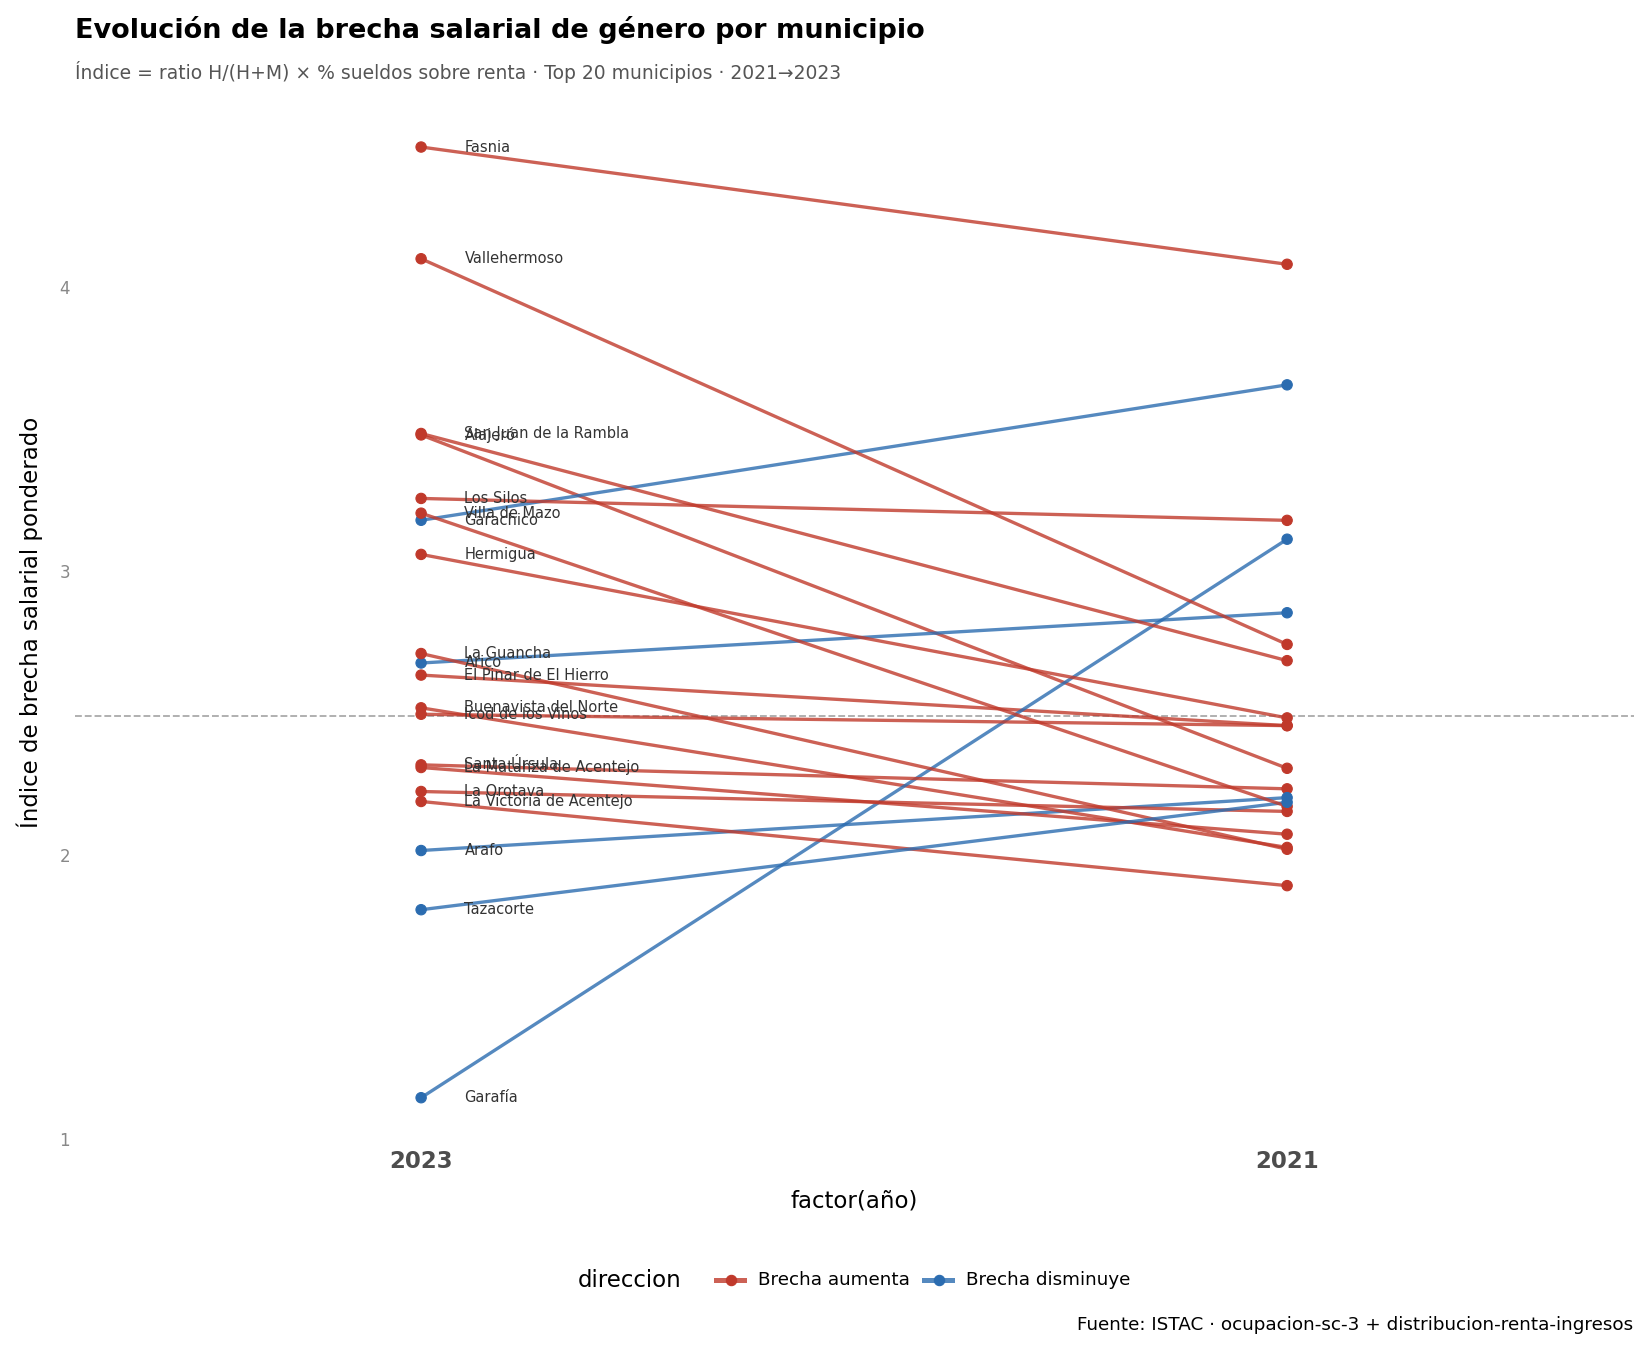
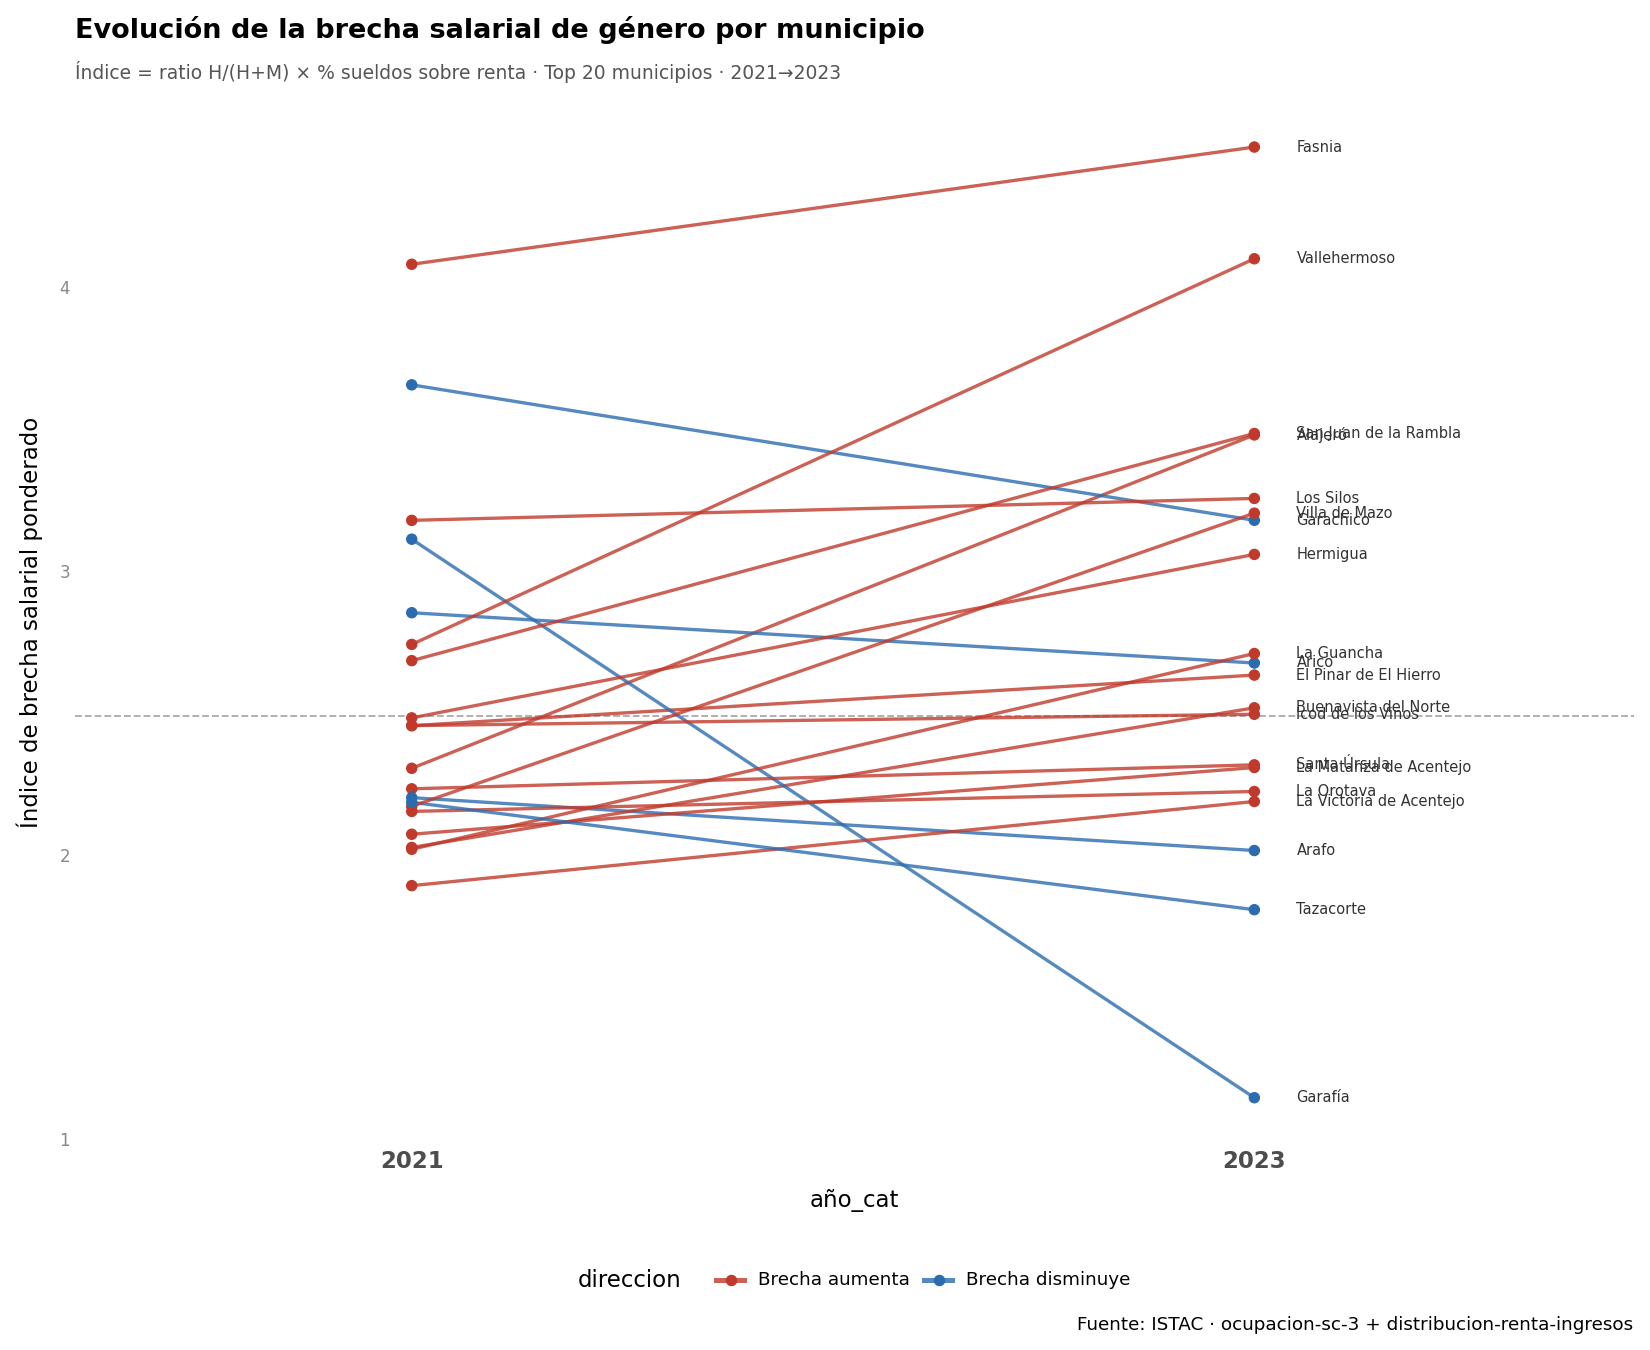
feat(assets): integrate gender gap spatial heatmaps into operational plotting pipeline and fix temporal categories ordering

diff --git a/assets_proyecto5/plots_assets.py b/assets_proyecto5/plots_assets.py
@@ -4,6 +4,7 @@ import pandas as pd
 import geopandas as gpd
 import matplotlib.pyplot as plt
 import matplotlib.colors as mcolors
+from matplotlib.cm import ScalarMappable
 from plotnine import *
 from dagster import asset, AssetExecutionContext, MetadataValue
 from assets import preprocesar_datos_p5
@@ -403,6 +404,9 @@ def plot_brecha_salarial(context: AssetExecutionContext) -> None:
         top.assign(año=AÑO_INI, brecha=top["brecha_ini"]),
         top.assign(año=AÑO_FIN, brecha=top["brecha_fin"]),
     ])
+    
+    # Garantizar orden creciente izquierda-derecha forzando categorías ordenadas
+    long["año_cat"] = pd.Categorical(long["año"], categories=[AÑO_INI, AÑO_FIN], ordered=True)
 
     mediana_global = long["brecha"].median()
     COLORES = {
@@ -412,7 +416,7 @@ def plot_brecha_salarial(context: AssetExecutionContext) -> None:
     }
 
     p = (
-        ggplot(long, aes(x="factor(año)", y="brecha", group="municipio", color="direccion"))
+        ggplot(long, aes(x="año_cat", y="brecha", group="municipio", color="direccion"))
         + geom_hline(yintercept=mediana_global, linetype="dashed", color="#888888", size=0.5, alpha=0.7)
         + geom_line(size=0.9, alpha=0.8)
         + geom_point(size=2.5, stroke=0.3)
@@ -444,3 +448,104 @@ def plot_brecha_salarial(context: AssetExecutionContext) -> None:
     out_path = os.path.join(get_plot_dir(), "brecha_salarial_slope.png")
     p.save(out_path, width=11, height=9, dpi=150, verbose=False)
     context.add_output_metadata({"plot": MetadataValue.md(f"![Brecha Salarial Slope]({out_path})")})
+
+@asset(deps=[preprocesar_datos_p5], group_name="visualizaciones")
+def plot_mapa_brecha_salarial(context: AssetExecutionContext) -> None:
+    cfg = get_plot_config()["brecha_salarial"]
+    
+    AÑO_INI = cfg.get("ano_ini", 2021)
+    AÑO_FIN = cfg.get("ano_fin", 2023)
+    TOP_N_LABEL = cfg.get("top_n_label", 5)
+    
+    ocu  = pd.read_csv(get_processed_path(cfg["dataset_ocu"])).dropna(subset=["num_casos"])
+    dist = pd.read_csv(get_processed_path(cfg["dataset_dist"])).dropna(subset=["OBS_VALUE"])
+
+    ocu_hm = (
+        ocu[ocu["sexo"].isin(["Hombres", "Mujeres"]) & (ocu["ocupacion"] != "No consta")]
+        .groupby(["municipio", "año", "sexo"], as_index=False)["num_casos"].sum()
+        .pivot(index=["municipio", "año"], columns="sexo", values="num_casos")
+        .reset_index()
+    )
+    ocu_hm.columns.name = None
+    ocu_hm["ratio_hm"] = ocu_hm["Hombres"] / (ocu_hm["Hombres"] + ocu_hm["Mujeres"])
+
+    sal = (
+        dist[dist["MEDIDAS_CODE"] == "SUELDOS_SALARIOS"]
+        .groupby(["municipio", "año"], as_index=False)["OBS_VALUE"].median()
+        .rename(columns={"OBS_VALUE": "pct_salarios"})
+    )
+
+    merged = ocu_hm.merge(sal, on=["municipio", "año"], how="inner")
+    merged["indice_brecha"] = (merged["ratio_hm"] - 0.5) * merged["pct_salarios"]
+
+    def cargar_municipios(año):
+        geojson_name = f"secciones_{año}0101_tenerife.json"
+        try:
+            gdf = gpd.read_file(get_geojson_path(geojson_name)).set_crs("EPSG:4326", allow_override=True)
+            gdf["municipio"] = gdf["etiqueta"].str.extract(r"- (.+)$")
+            gdf_mun = gdf.dissolve(by="municipio", as_index=False)[["municipio", "geometry"]]
+            return gdf_mun
+        except Exception:
+            return None
+
+    lim = max(abs(merged["indice_brecha"].min()), abs(merged["indice_brecha"].max()))
+    vmin, vmax = -lim, lim
+
+    fig, axes = plt.subplots(1, 2, figsize=(18, 9))
+
+    for ax, año in zip(axes, [AÑO_INI, AÑO_FIN]):
+        gdf_mun = cargar_municipios(año)
+        if gdf_mun is None:
+            ax.set_title(f"{año} - Sin Datos Espaciales")
+            ax.axis("off")
+            continue
+            
+        datos_año = merged[merged["año"] == año][["municipio", "indice_brecha"]]
+        gdf_plot = gdf_mun.merge(datos_año, on="municipio", how="left")
+
+        gdf_plot.plot(
+            column="indice_brecha",
+            cmap="RdBu_r", vmin=vmin, vmax=vmax,
+            linewidth=0.15, edgecolor="white",
+            missing_kwds={"color": "#dddddd", "label": "Sin datos"},
+            legend=False, ax=ax,
+        )
+
+        ax.set_title(str(año), fontsize=14, fontweight="bold", pad=8)
+        ax.axis("off")
+
+        top_mun = (
+            datos_año.assign(abs_brecha=datos_año["indice_brecha"].abs())
+            .nlargest(TOP_N_LABEL, "abs_brecha")["municipio"]
+            .tolist()
+        )
+        centroides = gdf_plot[gdf_plot["municipio"].isin(top_mun)].copy()
+        try:
+            centroides["cx"] = centroides.geometry.centroid.x
+            centroides["cy"] = centroides.geometry.centroid.y
+
+            for _, row in centroides.iterrows():
+                ax.annotate(
+                    row["municipio"],
+                    xy=(row["cx"], row["cy"]),
+                    fontsize=7, ha="center", color="#111111", fontweight="bold",
+                    bbox=dict(boxstyle="round,pad=0.2", fc="white", alpha=0.6, ec="none"),
+                )
+        except Exception:
+            pass
+
+    norm = mcolors.TwoSlopeNorm(vmin=vmin, vcenter=0, vmax=vmax)
+    sm   = ScalarMappable(cmap="RdBu_r", norm=norm)
+    sm.set_array([])
+    cbar = fig.colorbar(sm, ax=axes, orientation="vertical", shrink=0.6, pad=0.02)
+    cbar.set_label("Índice de brecha salarial\n(+ = favorable a hombres  /  − = favorable a mujeres)", fontsize=9)
+
+    fig.suptitle("Brecha salarial de género por municipio — Tenerife", fontsize=15, fontweight="bold", y=1.01)
+    fig.text(0.5, -0.01, "Índice = ratio H/(H+M) × % sueldos sobre renta · Fuente: ISTAC", ha="center", fontsize=8, color="#666666")
+
+    fig.tight_layout()
+    out_path = os.path.join(get_plot_dir(), "mapa_brecha_salarial.png")
+    fig.savefig(out_path, dpi=150, bbox_inches="tight")
+    plt.close(fig)
+    
+    context.add_output_metadata({"plot": MetadataValue.md(f"![Mapa Brecha Salarial]({out_path})")})
